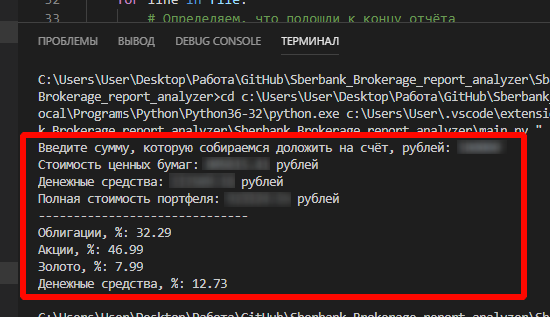
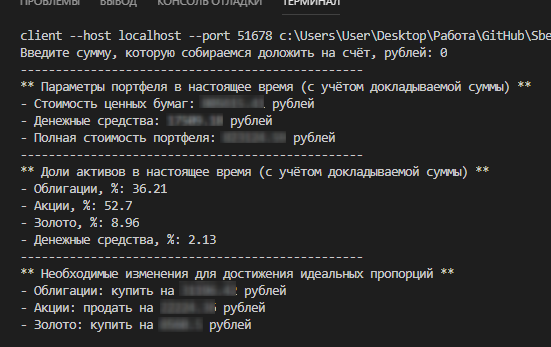
Добавил идеальные (целевые) параметры портфеля

diff --git a/main.py b/main.py
@@ -6,11 +6,23 @@ import re
 REPORT_PATH = r"C:\Users\User\Desktop\brokercode_030719_030719_D.html"
 file = open(REPORT_PATH,'r',encoding="utf-8")
 
+BONDS = 'ОБЛИГАЦИИ'
+SHARES = 'АКЦИИ'
+GOLD = 'ЗОЛОТО'
+
+# Целевые параметры портфеля
+ideal_portfel = {
+    BONDS: 40,
+    GOLD: 10,
+    SHARES: 50
+}
+
 # Оценка активов
-my_portfel = {}
-my_portfel['ОБЛИГАЦИИ'] = 0
-my_portfel['ЗОЛОТО'] = 0
-my_portfel['АКЦИИ'] = 0
+my_portfel = {
+    BONDS: 0,
+    GOLD: 0,
+    SHARES: 0
+}
 reading_a = False
 # Портфель Ценных Бумаг
 pcb = []
@@ -20,14 +32,15 @@ scb = []
 reading_scb = False
 
 # структура соответствия кодов типов активов
-ACTIVE_TYPES = {}
-ACTIVE_TYPES['Облигация федерального займа'] = 'ОБЛИГАЦИИ'
-ACTIVE_TYPES['Инвестиционный пай иностранного эмитента'] = 'ЗОЛОТО' # ETF у меня только на золото)
-ACTIVE_TYPES['Акция обыкновенная'] = 'АКЦИИ'
-ACTIVE_TYPES['Акция иностранного эмитента'] = 'АКЦИИ'
-ACTIVE_TYPES['Облигация'] = 'ОБЛИГАЦИИ'
-ACTIVE_TYPES['ГДР'] = 'АКЦИИ'
-ACTIVE_TYPES['Акция привилегированная'] = 'АКЦИИ'
+ACTIVE_TYPES = {
+    'Облигация федерального займа': BONDS,
+    'Инвестиционный пай иностранного эмитента': GOLD, # ETF у меня только на золото)
+    'Акция обыкновенная': SHARES,
+    'Акция иностранного эмитента': SHARES,
+    'Облигация': BONDS,
+    'ГДР': SHARES,
+    'Акция привилегированная': SHARES
+}
 
 try:
     for line in file:
@@ -123,11 +136,42 @@ additional_money = float(input("Введите сумму, которую соб
 my_portfel['Денежные средства, руб.'] = my_portfel['Денежные средства, руб.'] + additional_money
 my_portfel['Оценка, руб'] = my_portfel['Оценка, руб'] + additional_money
 
-print("Стоимость ценных бумаг: "+ str(my_portfel['Оценка портфеля ЦБ, руб']) + " рублей")
-print("Денежные средства: "+ str(my_portfel['Денежные средства, руб.']) + " рублей")
-print("Полная стоимость портфеля: "+ str(my_portfel['Оценка, руб']) + " рублей")
-print("------------------------------")
-print("Облигации, %: " + str(round(my_portfel['ОБЛИГАЦИИ']*100/my_portfel['Оценка, руб'],2)))
-print("Акции, %: " + str(round(my_portfel['АКЦИИ']*100/my_portfel['Оценка, руб'],2)))
-print("Золото, %: " + str(round(my_portfel['ЗОЛОТО']*100/my_portfel['Оценка, руб'],2)))
-print("Денежные средства, %: " + str(round(my_portfel['Денежные средства, руб.']*100/my_portfel['Оценка, руб'],2)))
+# Доли активов в настоящее время (с учётом докладываемой суммы)
+current_portions = {
+    BONDS: round(my_portfel[BONDS]*100/my_portfel['Оценка, руб'],2),
+    SHARES: round(my_portfel[SHARES]*100/my_portfel['Оценка, руб'],2),
+    GOLD: round(my_portfel[GOLD]*100/my_portfel['Оценка, руб'],2)
+}
+
+# Необходимые изменения в рублях для достижения идеальных пропорций
+diff_portions = {
+    BONDS: round((ideal_portfel[BONDS] - current_portions[BONDS])*my_portfel['Оценка, руб']/100,2),
+    SHARES: round((ideal_portfel[SHARES] - current_portions[SHARES])*my_portfel['Оценка, руб']/100,2),
+    GOLD: round((ideal_portfel[GOLD] - current_portions[GOLD])*my_portfel['Оценка, руб']/100,2)
+}
+
+print("-------------------------------------------------")
+print("** Параметры портфеля в настоящее время (с учётом докладываемой суммы) **")
+print("- Стоимость ценных бумаг: "+ str(my_portfel['Оценка портфеля ЦБ, руб']) + " рублей")
+print("- Денежные средства: "+ str(my_portfel['Денежные средства, руб.']) + " рублей")
+print("- Полная стоимость портфеля: "+ str(my_portfel['Оценка, руб']) + " рублей")
+print("-------------------------------------------------")
+print("** Доли активов в настоящее время (с учётом докладываемой суммы) **")
+print("- Облигации, %: " + str(current_portions[BONDS]))
+print("- Акции, %: " + str(current_portions[SHARES]))
+print("- Золото, %: " + str(current_portions[GOLD]))
+print("- Денежные средства, %: " + str(round(my_portfel['Денежные средства, руб.']*100/my_portfel['Оценка, руб'],2)))
+print("-------------------------------------------------")
+print("** Необходимые изменения для достижения идеальных пропорций **")
+if diff_portions[BONDS]>0:
+    print("- Облигации: купить на " + str(diff_portions[BONDS]) + " рублей")
+else:
+    print("- Облигации: продать на " + str(abs(diff_portions[BONDS])) + " рублей")
+if diff_portions[SHARES]>0:
+    print("- Акции: купить на " + str(diff_portions[SHARES]) + " рублей")
+else:
+    print("- Акции: продать на " + str(abs(diff_portions[SHARES])) + " рублей")
+if diff_portions[GOLD]>0:
+    print("- Золото: купить на " + str(diff_portions[GOLD]) + " рублей")
+else:
+    print("- Золото: продать на " + str(abs(diff_portions[GOLD])) + " рублей")

diff --git a/README.md b/README.md
@@ -6,6 +6,8 @@
 - Подтягивание данных из HTML-файла
 - Ввод планируемой к вложению дополнительной суммы
 - Расчёт процентных долей типов активов (с учётом введённой суммы)
+- Функционал целевых параметров портфеля (доли активов)
+- Рекомендации по покупкам/продажам для достижения планируемых пропорций активов
 - Вывод результата в консоль
 
 В настоящее время результат работы скрипта выглядит так:
@@ -13,14 +15,12 @@
 ![result](result.png "Результат работы")
 
 Ближайшие цели:
-- Добавить функционал целевых параметров портфеля (доли активов)
 - Вынести конфигурацию в отдельный файл:
   - Путь к файлу
   - Целевые параметры портфеля
 
 Планируемые возможности:
 - Вывод результатов в Excel-файл
-- Рекомендации по покупкам/продажам для достижения планируемых пропорций активов
 
 Требования для работы скрипта:
 - Python (у меня установлен 3.6.4, но думаю будет и на более старых версиях работать)
